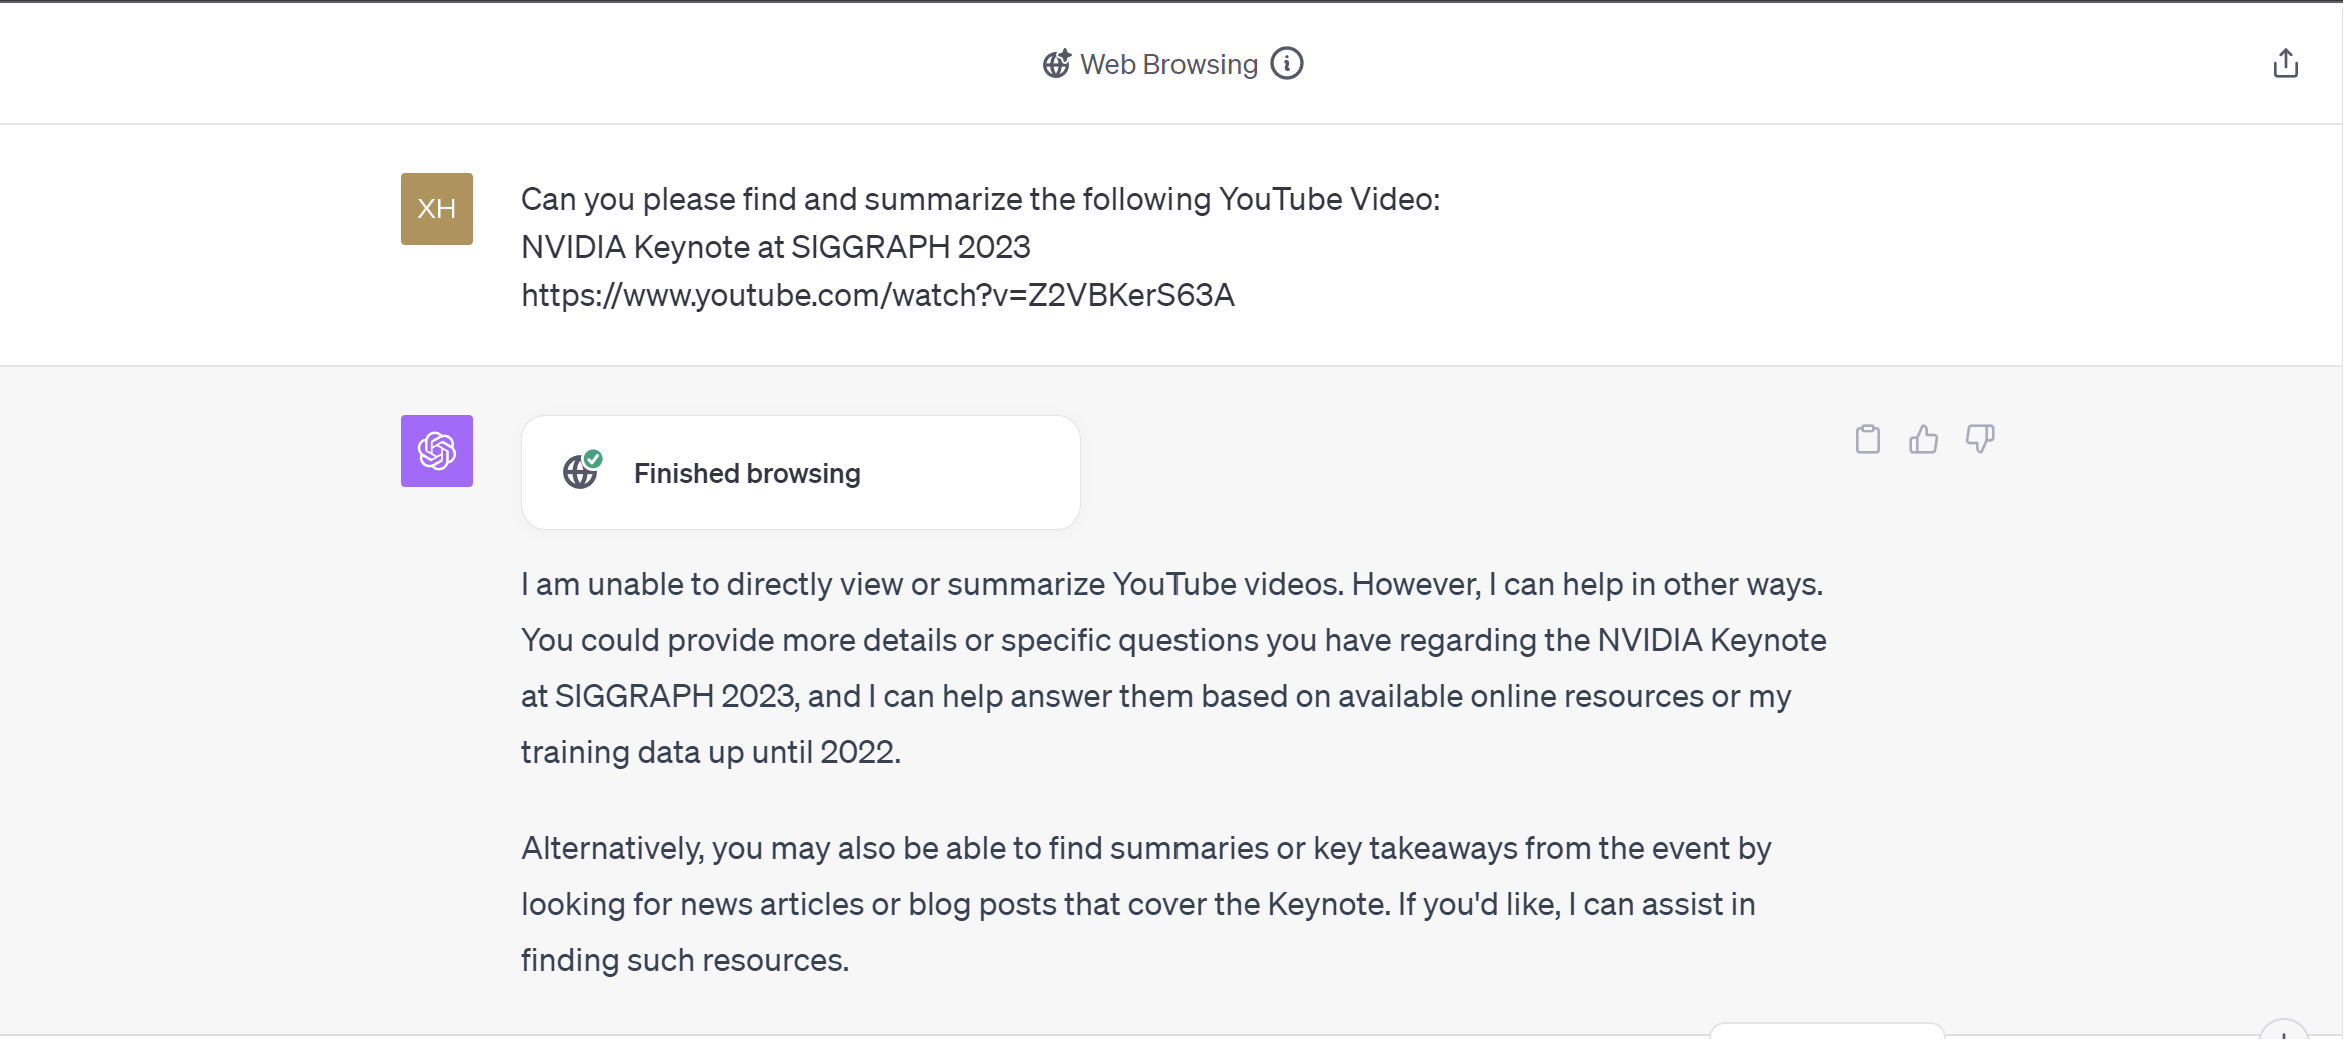
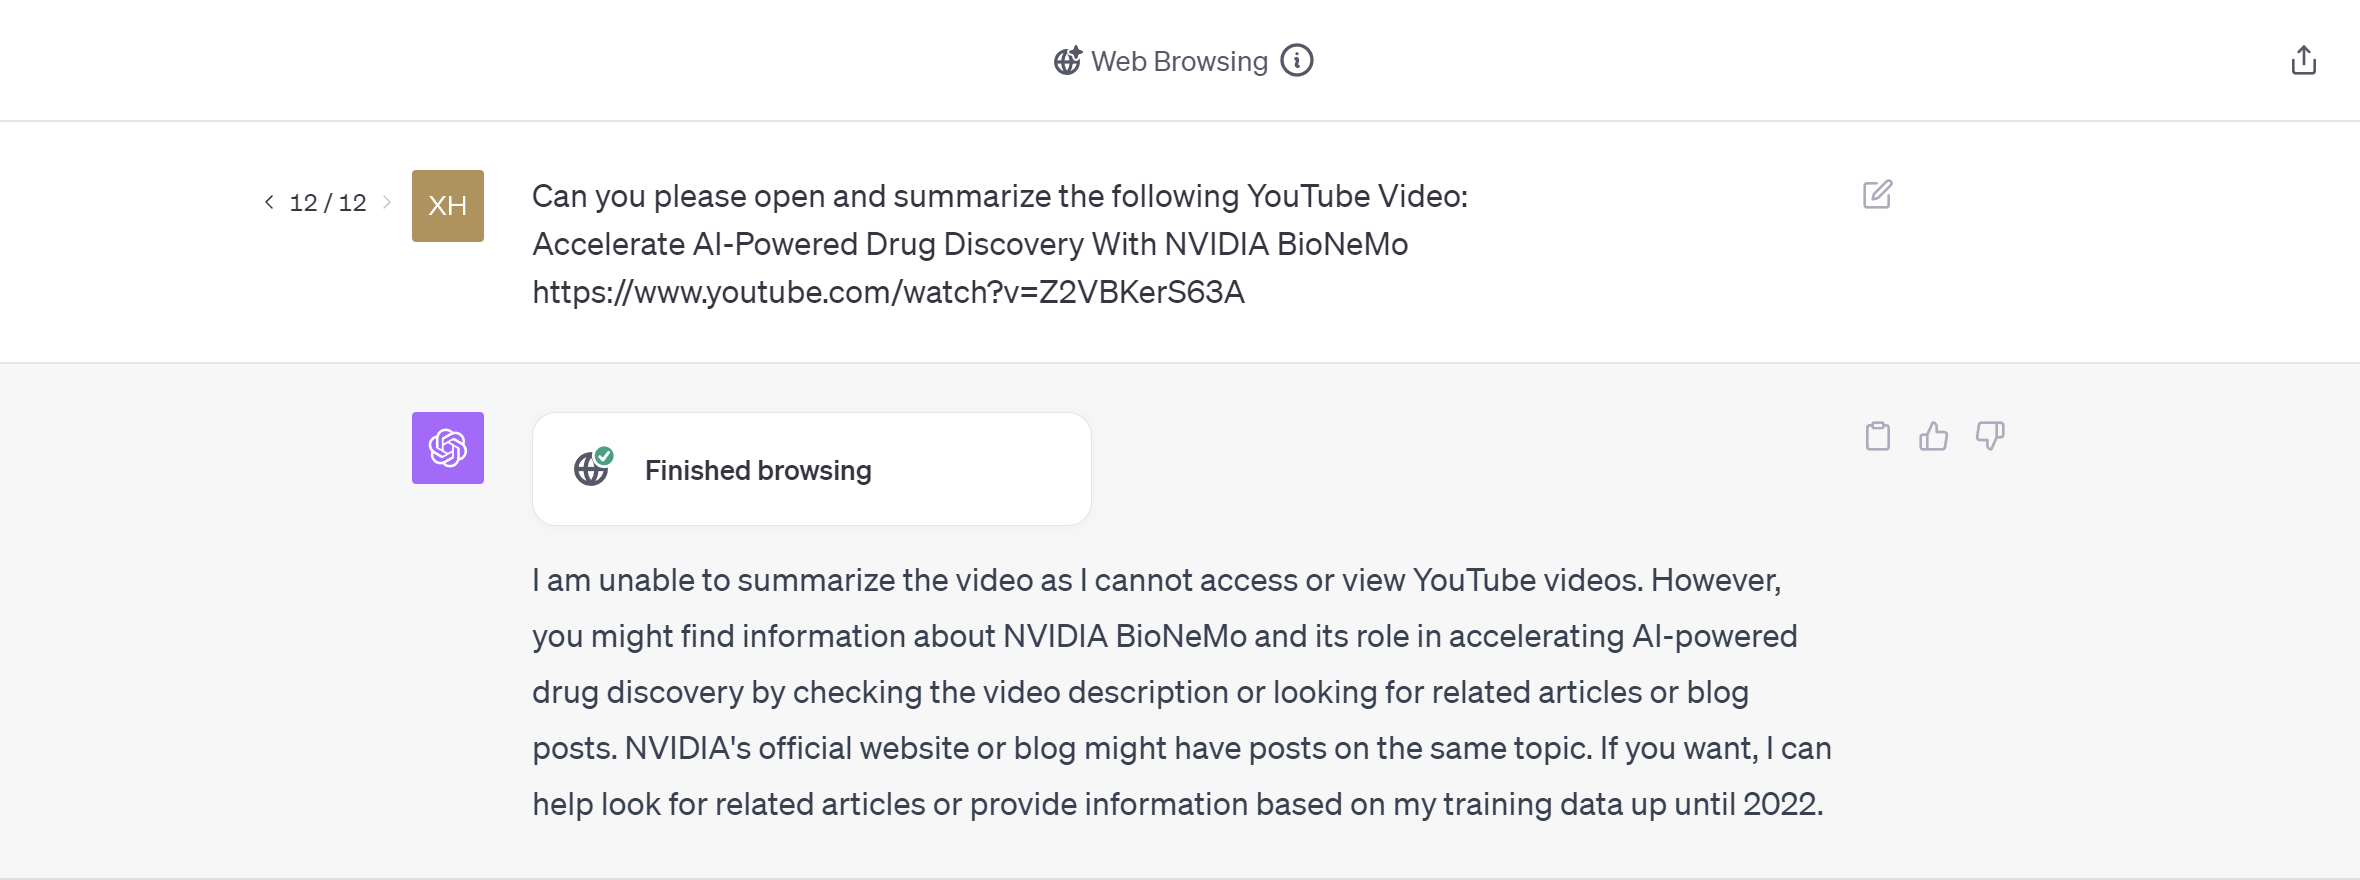
New Addition 2

diff --git a/README.md b/README.md
@@ -12,4 +12,13 @@ Currently the premium extension of ChatGPT (GPT4 + Bing Search extension) has is
 
 ![Alt text](<Documentation/Chat GPT 4 Screenshot.png>)
 
-To save time to the user from watching 
+While some of the videos, have corresponding documentation or news - less obscure ones cannot be accessed / or provide an accurate summary.
+
+To save time to the user from wasting unecessary time, we have built a chat interface which automatically provides summary for available youtube videos (in this case from the NVIDIA channel).
+
+---
+
+## Solution Overview
+
+
+
